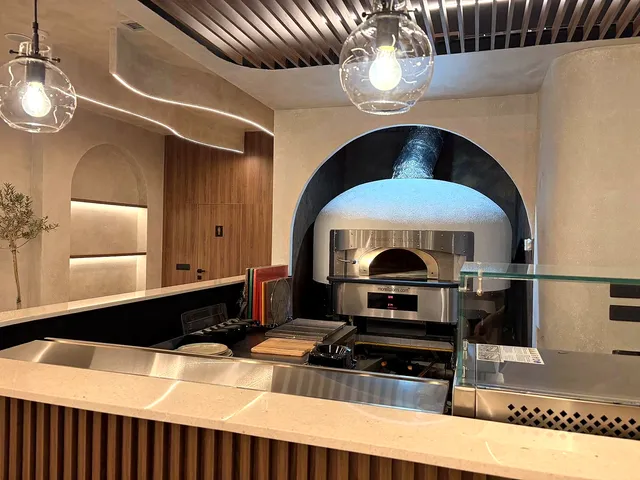
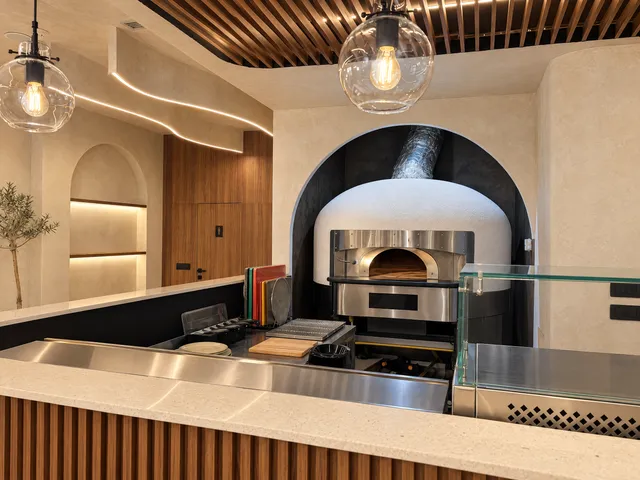
feat(vera): the rib-eye platter and the room, re-shot like the rest
The rib-eye platter at the restaurant's table with the room behind, and
the three photographs of the room as an interior photographer would take
them: straight verticals, balanced exposure, the oven's labels gone. The
website's room photographs now go up to 2400 px for large screens.

diff --git a/docs/two-restaurants-rollout.md b/docs/two-restaurants-rollout.md
@@ -63,6 +63,9 @@ never in a prompt or a chat.
   re-shot with gpt-image-2.5 (`scripts/vera-photos.mjs`) — the same dish,
   plate, table and room, with a photographer's light, lens and retouching —
   and finished with grain and sharpening (`scripts/vera-italia/import-photos.mjs`).
+  The owner's three photographs of the room, re-shot the same way as an
+  interior photographer would (`scripts/vera-italia/room-photos.mjs` →
+  `site-images.mjs`), are the website's.
 - **The logo**: an arch monogram (VI) over VERA ITALIA / CUCINA ITALIANA, a
   one-line wordmark and the app icons, drawn with gpt-image-2.5
   (`scripts/vera-italia/logo.mjs`, `brand-assets.mjs` → `public/brand/vera/`).
@@ -82,12 +85,6 @@ never in a prompt or a chat.
 - **Its Google review link** (`reviewUrl` in `src/lib/venues.ts`) — until then
   Vera Italia's guests are thanked for a rating without being sent to La
   Soul's listing.
-- **Image credits.** The OpenAI account ran out of credits on 30 October
-  before the rib-eye platter and the three photographs of the room were
-  re-shot: they are the originals, graded by hand. With credits:
-  `node scripts/vera-photos.mjs ribeye-platter`,
-  `node scripts/vera-italia/room-photos.mjs`, then `import-photos.mjs`,
-  `npm run images` and `site-images.mjs`.
 - Its tables and room QR code (Admin → QR Codes, switched to Vera Italia), its
   printers (Admin → Printing, switched to Vera Italia: their own poll URLs).
 - Whether its website keeps `/veraitalia/` or gets a domain of its own.
